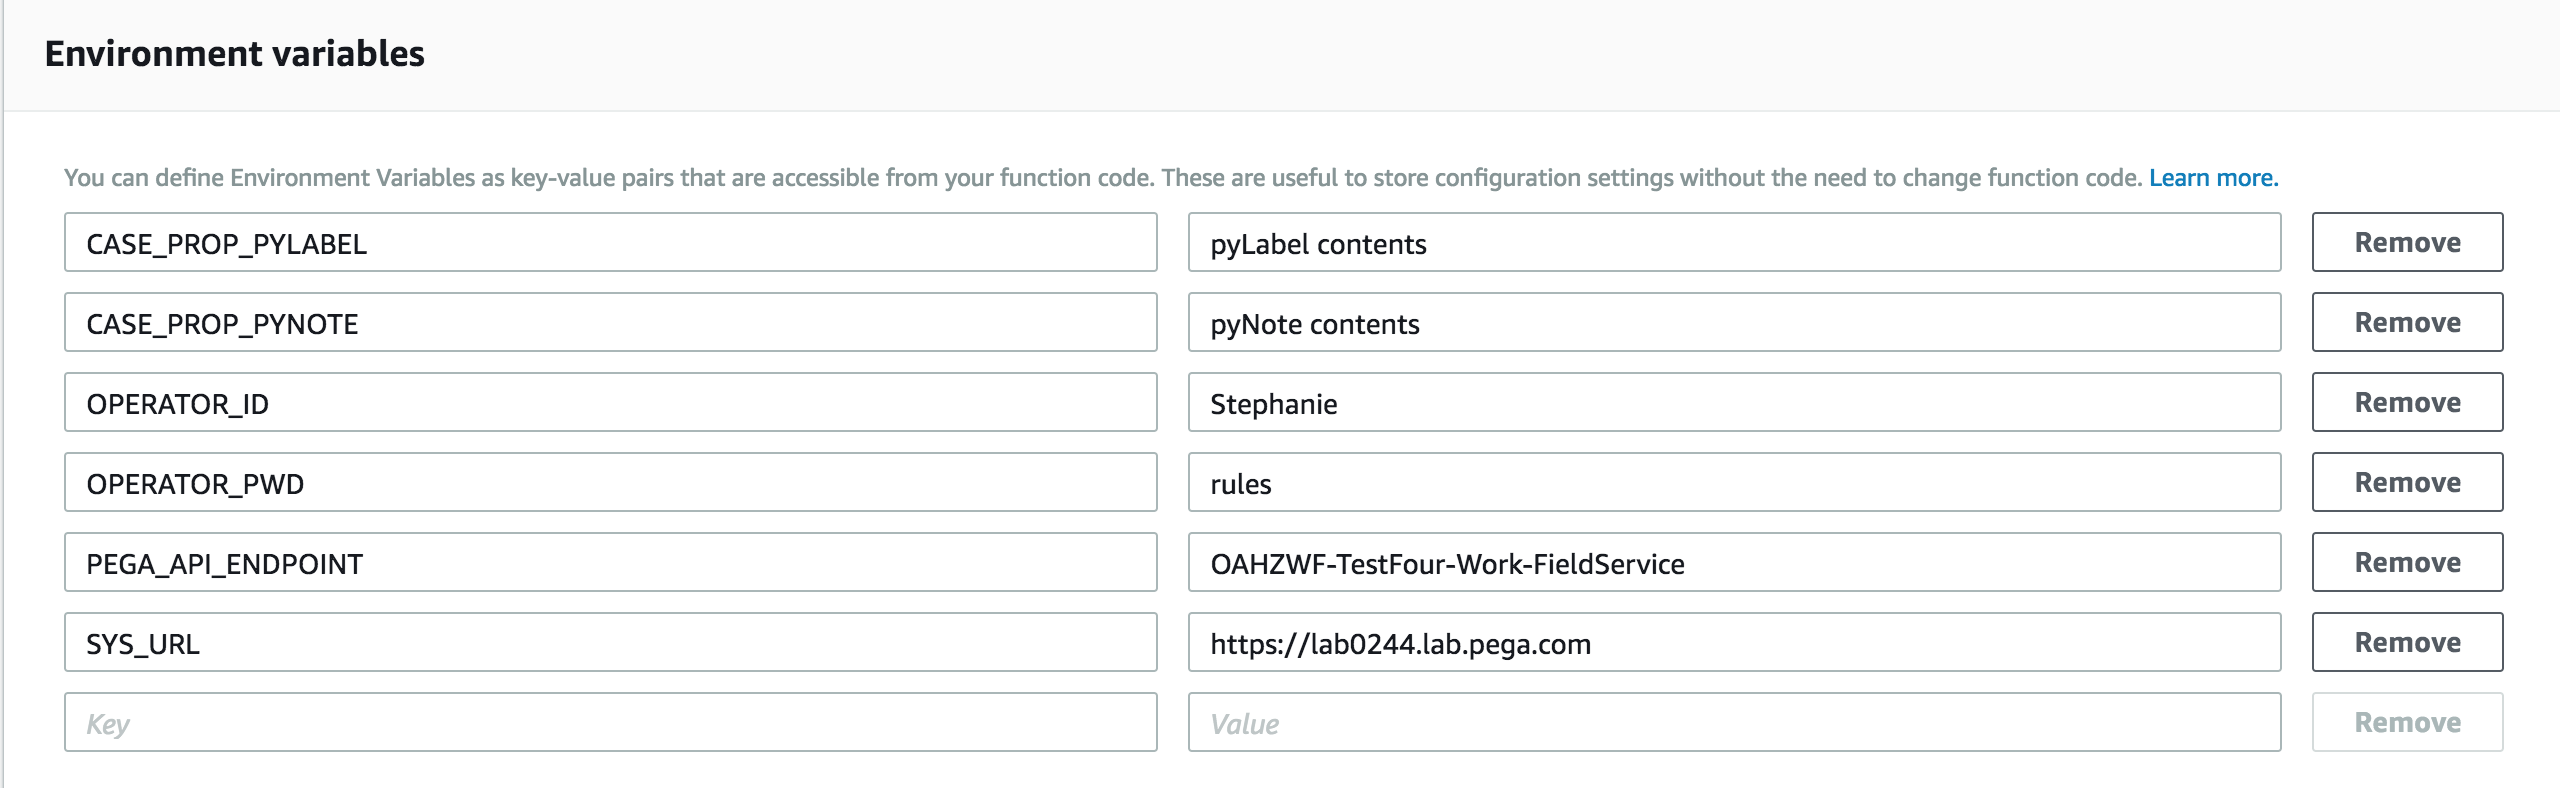
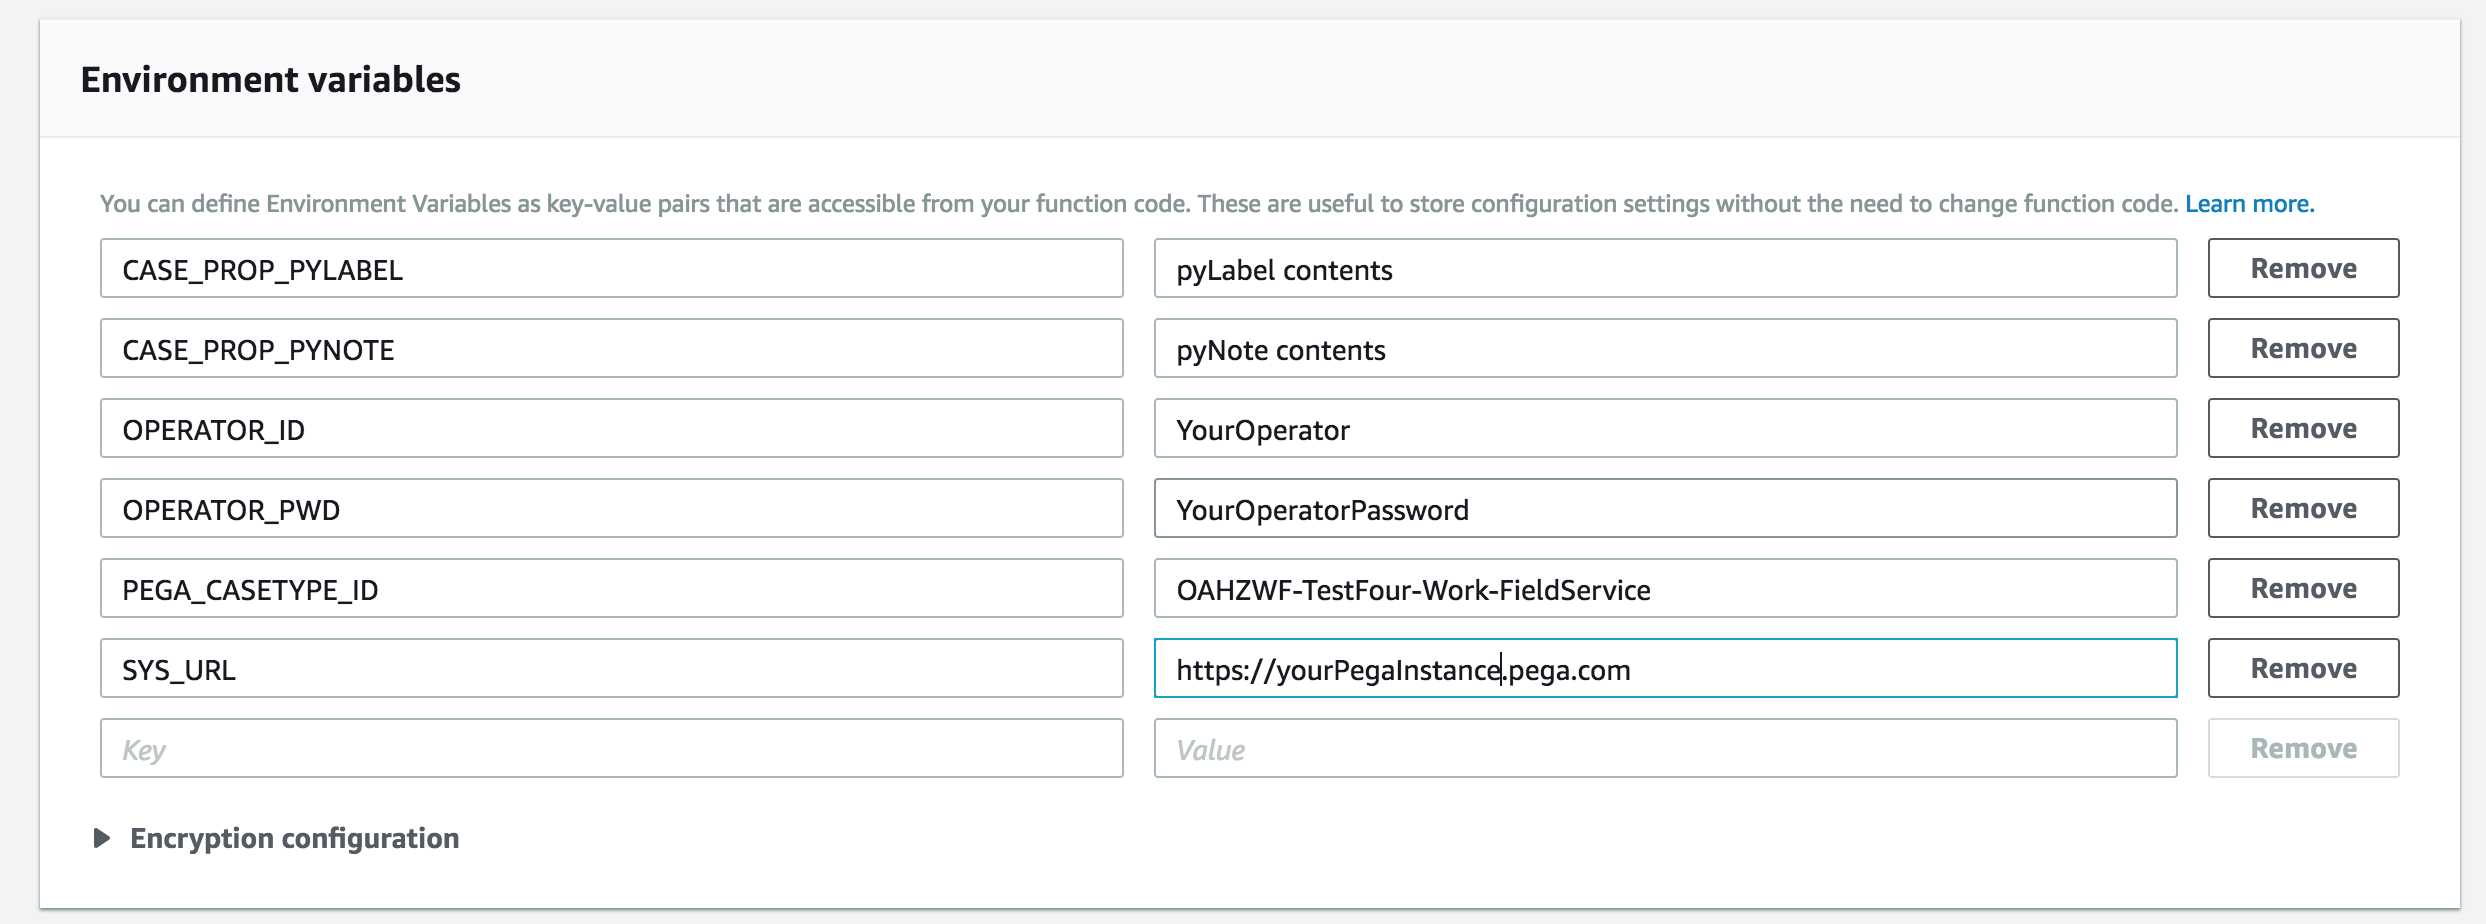
update screenshots and clean up code

diff --git a/index.js b/index.js
@@ -1,6 +1,6 @@
-//process.env.NODE_CONFIG_DIR = process.env["LAMBDA_TASK_ROOT"];
+//process.env.NODE_CONFIG_DIR = process.env['LAMBDA_TASK_ROOT'];
 var AWS = require('aws-sdk');
-request = require('request-json');
+var request = require('request-json');
 
 exports.handler = (event, context, callback) => {
 
@@ -13,12 +13,12 @@ exports.handler = (event, context, callback) => {
 
     //Case class and properties (note that you'll need to create the custom 'PIN' and 'PhoneNumber' properties in your case type in Pega)
     var data = {
-              "caseTypeID" : process.env.PEGA_API_ENDPOINT,
-              "processID" : "pyStartCase",
-              "content" : { "pyNote": process.env.CASE_PROP_PYNOTE ? process.env.CASE_PROP_PYNOTE : "Service Case",
-                            "pyLabel": process.env.CASE_PROP_PYLABEL ? process.env.CASE_PROP_PYLABEL : "pyLabel",
-                            "PIN": pin,
-                            "PhoneNumber": phoneNumber }
+              'caseTypeID' : process.env.PEGA_API_ENDPOINT,
+              'processID' : 'pyStartCase',
+              'content' : { 'pyNote': process.env.CASE_PROP_PYNOTE ? process.env.CASE_PROP_PYNOTE : 'Service Case',
+                            'pyLabel': process.env.CASE_PROP_PYLABEL ? process.env.CASE_PROP_PYLABEL : 'pyLabel',
+                            'PIN': pin,
+                            'PhoneNumber': phoneNumber }
                };
 
     //Set up basic Pega API auth
@@ -34,7 +34,7 @@ exports.handler = (event, context, callback) => {
     //Add and customize these values depending on what you need to return
       function buildResponse() {
           return {
-              userName: "Test User"
+              userName: 'Test User'
           };
       }
 

diff --git a/Readme.md b/Readme.md
@@ -35,17 +35,17 @@ In AWS Lambda:
 
 - Set your enviroment variables 
 
-**CASE_PROP_PYLABEL** - This will set the pyLabel property of your case
+**CASE_PROP_PYLABEL** - This will set the pyLabel property of your case. You can set this to any string. (In the index.js file, you can edit the json sent to the Pega API to populate other case-specific properties. pyLabel and pyNote are just used as examples.) 
 
-**CASE_PROP_PYNOTE** - This will set the pyNote property of your case
+**CASE_PROP_PYNOTE** - This will set the pyNote property of your case. You can set this to any string.
 
-**OPERATOR_ID** - The operator ID to authenticate the API call
+**OPERATOR_ID** - The operator ID to authenticate the API call.
 
-**OPERATOR_PWD** - The operators password
+**OPERATOR_PWD** - The operator's password.
 
-**PEGA_API_ENDPOINT** - Enter the case class that you copied earlier
+**PEGA_CASETYPE_ID** - The case class that you copied earlier.
 
-**SYS_URL** - The url of your Pega instance
+**SYS_URL** - The URL of your Pega instance.
 
 When you're done, your environment variables should look like the following: 
 
